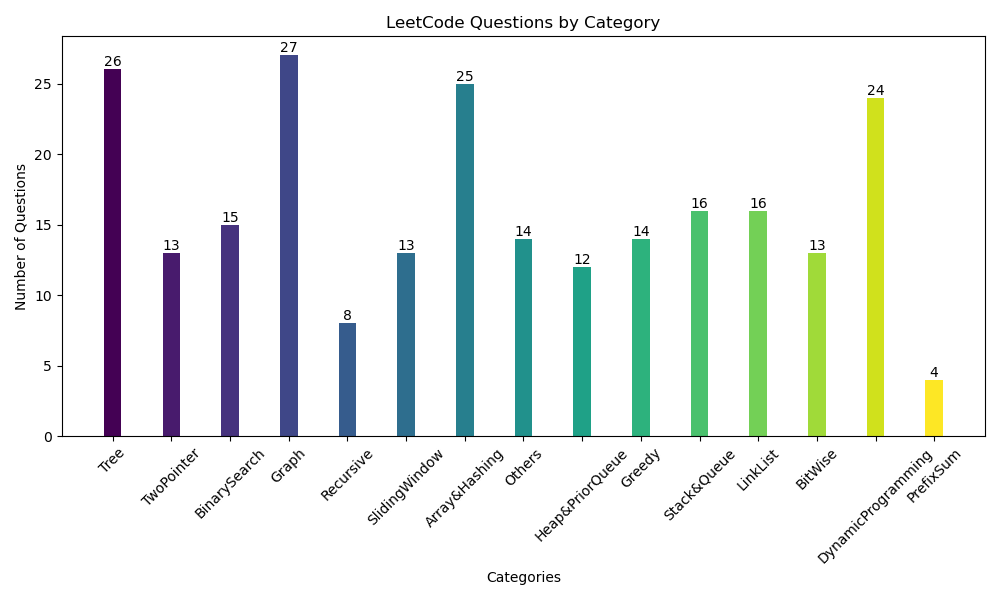
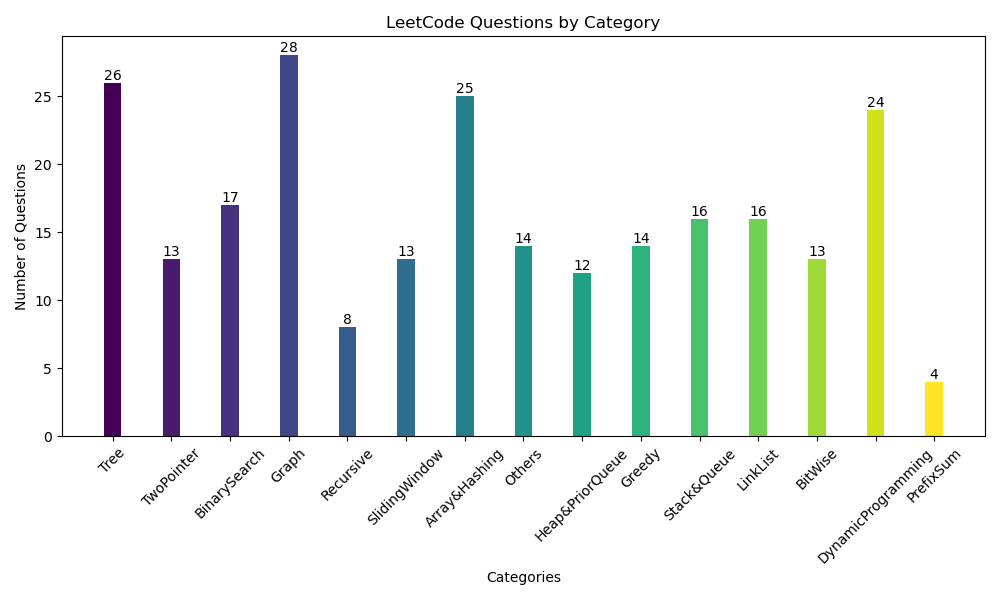
pratices BFS, Binary Search

diff --git a/Graph/1298. Maximum Candies You Can Get from Boxes.cpp b/Graph/1298. Maximum Candies You Can Get from Boxes.cpp
@@ -1,0 +1,53 @@
+// proficient
+/*
+    BFS, 每次從目前可以打開的box 去拿取candies, keys, containedBoxes
+    可以打開的push到queue
+    不能打開的用set去存直到拿到key才push到open queue
+
+    不斷loop 直到 queue為空
+
+*/
+class Solution {
+  public:
+	int maxCandies(vector<int> &status, vector<int> &candies,
+	               vector<vector<int>> &keys,
+	               vector<vector<int>> &containedBoxes,
+	               vector<int> &initialBoxes) {
+		queue<int> open_boxes;
+		unordered_set<int> close_boxes;
+		int total_candies = 0;
+		for (int &box : initialBoxes) {
+			if (status[box] == 1) {
+				// can open
+				open_boxes.push(box);
+			} else
+				close_boxes.insert(box);
+		}
+		while (!open_boxes.empty()) {
+			int size = open_boxes.size();
+
+			for (int i = 0; i < size; ++i) {
+				int cur_box = open_boxes.front();
+				open_boxes.pop();
+				total_candies += candies[cur_box];
+
+				// if find i-th key, change i-th status(can open now)
+				for (int &key : keys[cur_box]) {
+					status[key] = 1;
+					if (close_boxes.count(key) > 0) {
+						close_boxes.erase(key);
+						open_boxes.push(key);
+					}
+				}
+				for (int &box : containedBoxes[cur_box]) {
+					if (status[box] == 1) {
+						// can open
+						open_boxes.push(box);
+					} else
+						close_boxes.insert(box);
+				}
+			}
+		}
+		return total_candies;
+	}
+};

diff --git a/BinarySearch/1300. Sum of Mutated Array Closest to Target.cpp b/BinarySearch/1300. Sum of Mutated Array Closest to Target.cpp
@@ -1,0 +1,40 @@
+/*
+
+    1.  binary search value 0 ~ max(arr), 然後看arr[i] > value 全部改成value,
+    根據distance 決定下一次search 方向
+*/
+class Solution {
+  public:
+	int findBestValue(vector<int> &arr, int target) {
+		int n = arr.size();
+		sort(arr.begin(), arr.end());
+		int l = 0;
+		int r = *max_element(arr.begin(), arr.end());
+		int min_dis = INT_MAX;
+		int min_value = INT_MAX;
+		while (l <= r) {
+			int m = l + (r - l) / 2;
+			int i = 0;
+			int sum = 0;
+
+			while (i < n) {
+				if (arr[i] >= m)
+					break;
+				sum += arr[i++];
+			}
+			sum += m * (n - i);
+			int dis = abs(sum - target);
+			if (dis < min_dis || (dis == min_dis && m < min_value)) {
+				min_dis = dis;
+				min_value = m;
+			}
+			if (sum < target) {
+				l = m + 1;
+			} else if (sum > target)
+				r = m - 1;
+			else
+				return m;
+		}
+		return min_value;
+	}
+};

diff --git a/BinarySearch/852. Peak Index in a Mountain Array.cpp b/BinarySearch/852. Peak Index in a Mountain Array.cpp
@@ -1,0 +1,25 @@
+// proficient
+/*
+    Binary Search看左右兩邊, left/right 往大的那邊移動, 兩邊都比較小,
+   自己就是peak time O(logn)
+*/
+class Solution {
+  public:
+	int peakIndexInMountainArray(vector<int> &arr) {
+		int l = 0;
+		int r = arr.size() - 1;
+		while (l <= r) {
+			int m = l + (r - l) / 2;
+			if (arr[m + 1] > arr[m])
+				l = m + 1;
+			else if (arr[m - 1] > arr[m])
+				r = m - 1;
+			else {
+				// middle is peak element
+				return m;
+			}
+		}
+		// cout << "execute here" << endl;
+		return l;
+	}
+};

diff --git a/README.md b/README.md
@@ -1,8 +1,8 @@
 # LeetCode Problems
 
 ❌  can't resolve without solution: 27
-📝  can't resolve without hint: 175
-✅  resolve by self: 38
+📝  can't resolve without hint: 176
+✅  resolve by self: 40
 ## Tree
 - ❌ 105. Construct Binary Tree from Preorder and Inorder Traversal
 - 📝 PrefixTree
@@ -56,11 +56,13 @@
 - 📝 EatBanans
 - 📝 SearchInsertPos
 - 📝 Search2D
+- 📝 1300. Sum of Mutated Array Closest to Target
 - 📝 278. First Bad Version
 - 📝 RotateSortArrSearch
 - 📝 CountNumberOfFairPairs
 - 📝 981. Time Based Key-Value Store
 - 📝 BinarySearch
+- ✅ 852. Peak Index in a Mountain Array
 - ✅ 167. Two Sum II - Input Array Is Sorted
 
 ## Graph
@@ -90,6 +92,7 @@
 - 📝 rottingFruit
 - ✅ 3015. Count the Number of Houses at a Certain Distance I
 - ✅ 547. Number of Provinces
+- ✅ 1298. Maximum Candies You Can Get from Boxes
 - ✅ 463. Island Perimeter
 
 ## Recursive
@@ -274,7 +277,7 @@
 - 📝 2574. Left and Right Sum Differences
 
 ## Statistics
-Current total questions: 239
+Current total questions: 242
 
 <img src="chart.png" alt="questions bar chart" width="500">
 

diff --git a/Graph/README.md b/Graph/README.md
@@ -6,6 +6,8 @@
 
 rottingFruit
 
+1298. Maximum Candies You Can Get from Boxes
+
 ### kahn's algorithm
 
 207. Course Schedule
@@ -22,4 +24,5 @@ rottingFruit
 
 ## Dijkstra's algorithm
 
-743. NetworkDelayTime.cpp
+778. Swim in Rising Water.cpp
+779. NetworkDelayTime.cpp
